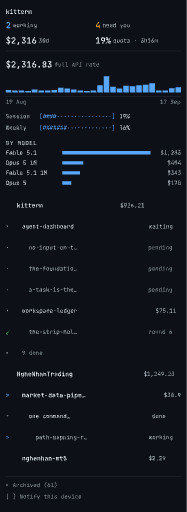
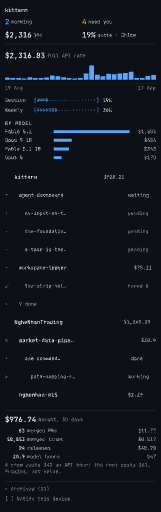
Draw the yield, the roles and the leaks in Pencil
The dashboard frames now carry what the spend bought: 83 merged pull
requests at $11.77, 58,853 merged lines at 1.7 cents, 24 releases at
$40.70, 20.9 hours of model time at $47. Beside it, where the dollar
goes by role, and the leaks.

The cache share leaves every heading in both frames. It measures 95-99%
on every kitterm session over $5 but three, so it is a constant.

Claude-Session: https://claude.ai/code/session_012ztzwyRLLwgnU2inMa4JWu

diff --git a/docs/goals/agent-dashboard/corpus/design-foundation.md b/docs/goals/agent-dashboard/corpus/design-foundation.md
@@ -8,8 +8,8 @@ number in them is read from the live daemon on 2026-09-17:
 
 | Frame | What it shows |
 |---|---|
-| `Dashboard 1200` | the whole page at desktop width, 28 px lines, the by-model split |
-| `Dashboard 390` | the same page on a phone, 44 px lines, facts dropped |
+| `Dashboard 1200` | the whole page at desktop width, 28 px lines, the by-model split, the yield block, where the dollar goes, the leaks |
+| `Dashboard 390` | the same page on a phone, 44 px lines, facts dropped, the yield block kept |
 | `Foundation` | the space scale, the type scale, the state marks, the two densities, the model naming rule |
 | `Anatomy of a line` | the line's six cells and the order its facts drop in |
 
